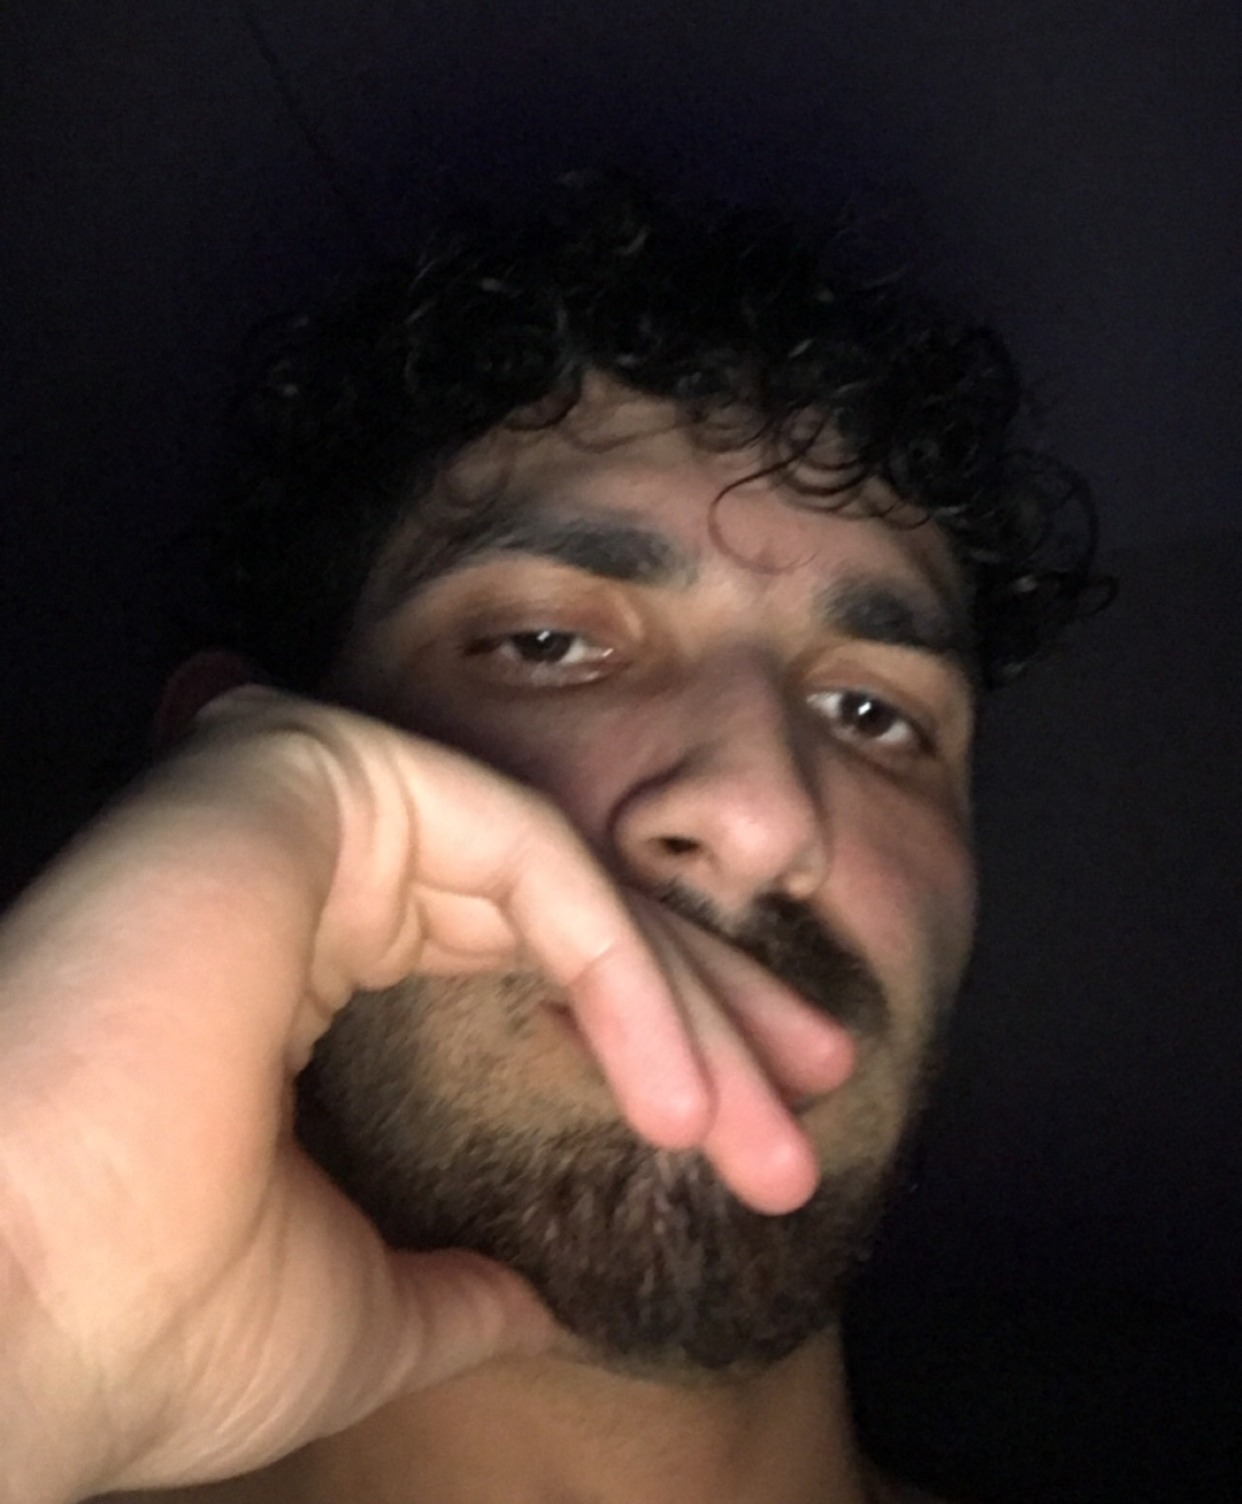
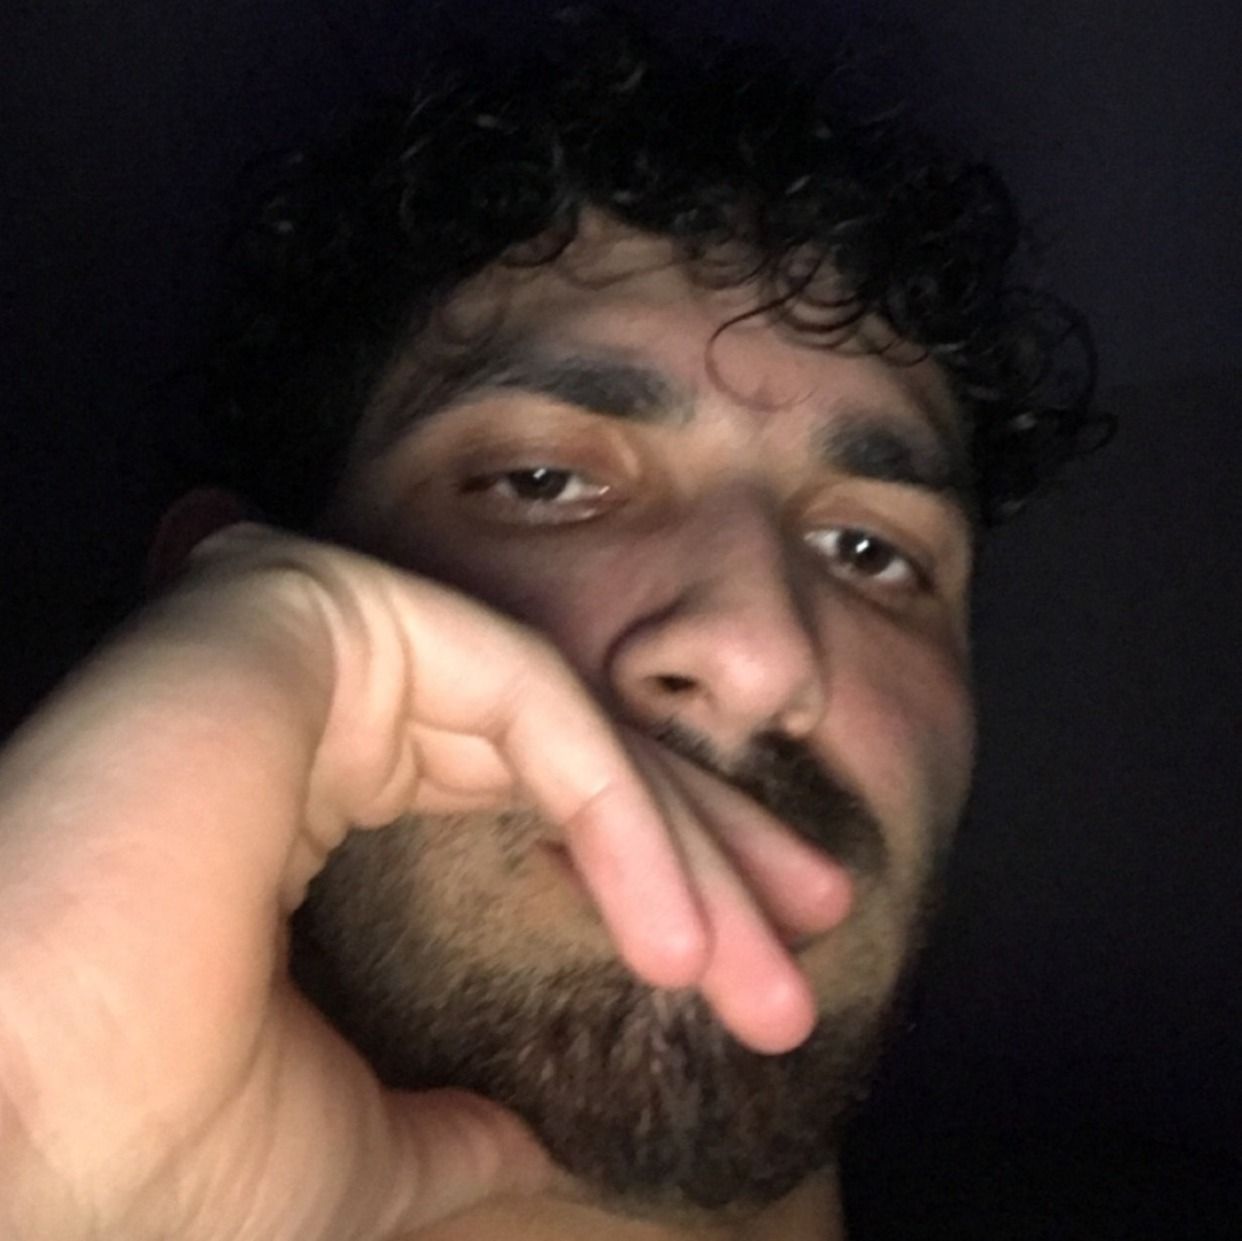
Image resize and Hover background

diff --git a/components/Main.jsx b/components/Main.jsx
@@ -37,7 +37,7 @@ const Main = () => {
             WEB3 DEVELOPER
           </h1>
 
-          <div className="flex items-center justify-between p-5 bg-zinc-300/80 font-robot text-black border border-zinc-300/0 hover:border-[#ff2a6d] transform duration-300">
+          <div className="flex items-center justify-between p-5 bg-zinc-300/80 font-robot text-black border border-zinc-300/0 hover:border-[#ff2a6d] hover:text-[#ff2a6d] hover:bg-zinc-800/80 transform duration-300">
             <Image
               src={profilePic}
               alt="/"
